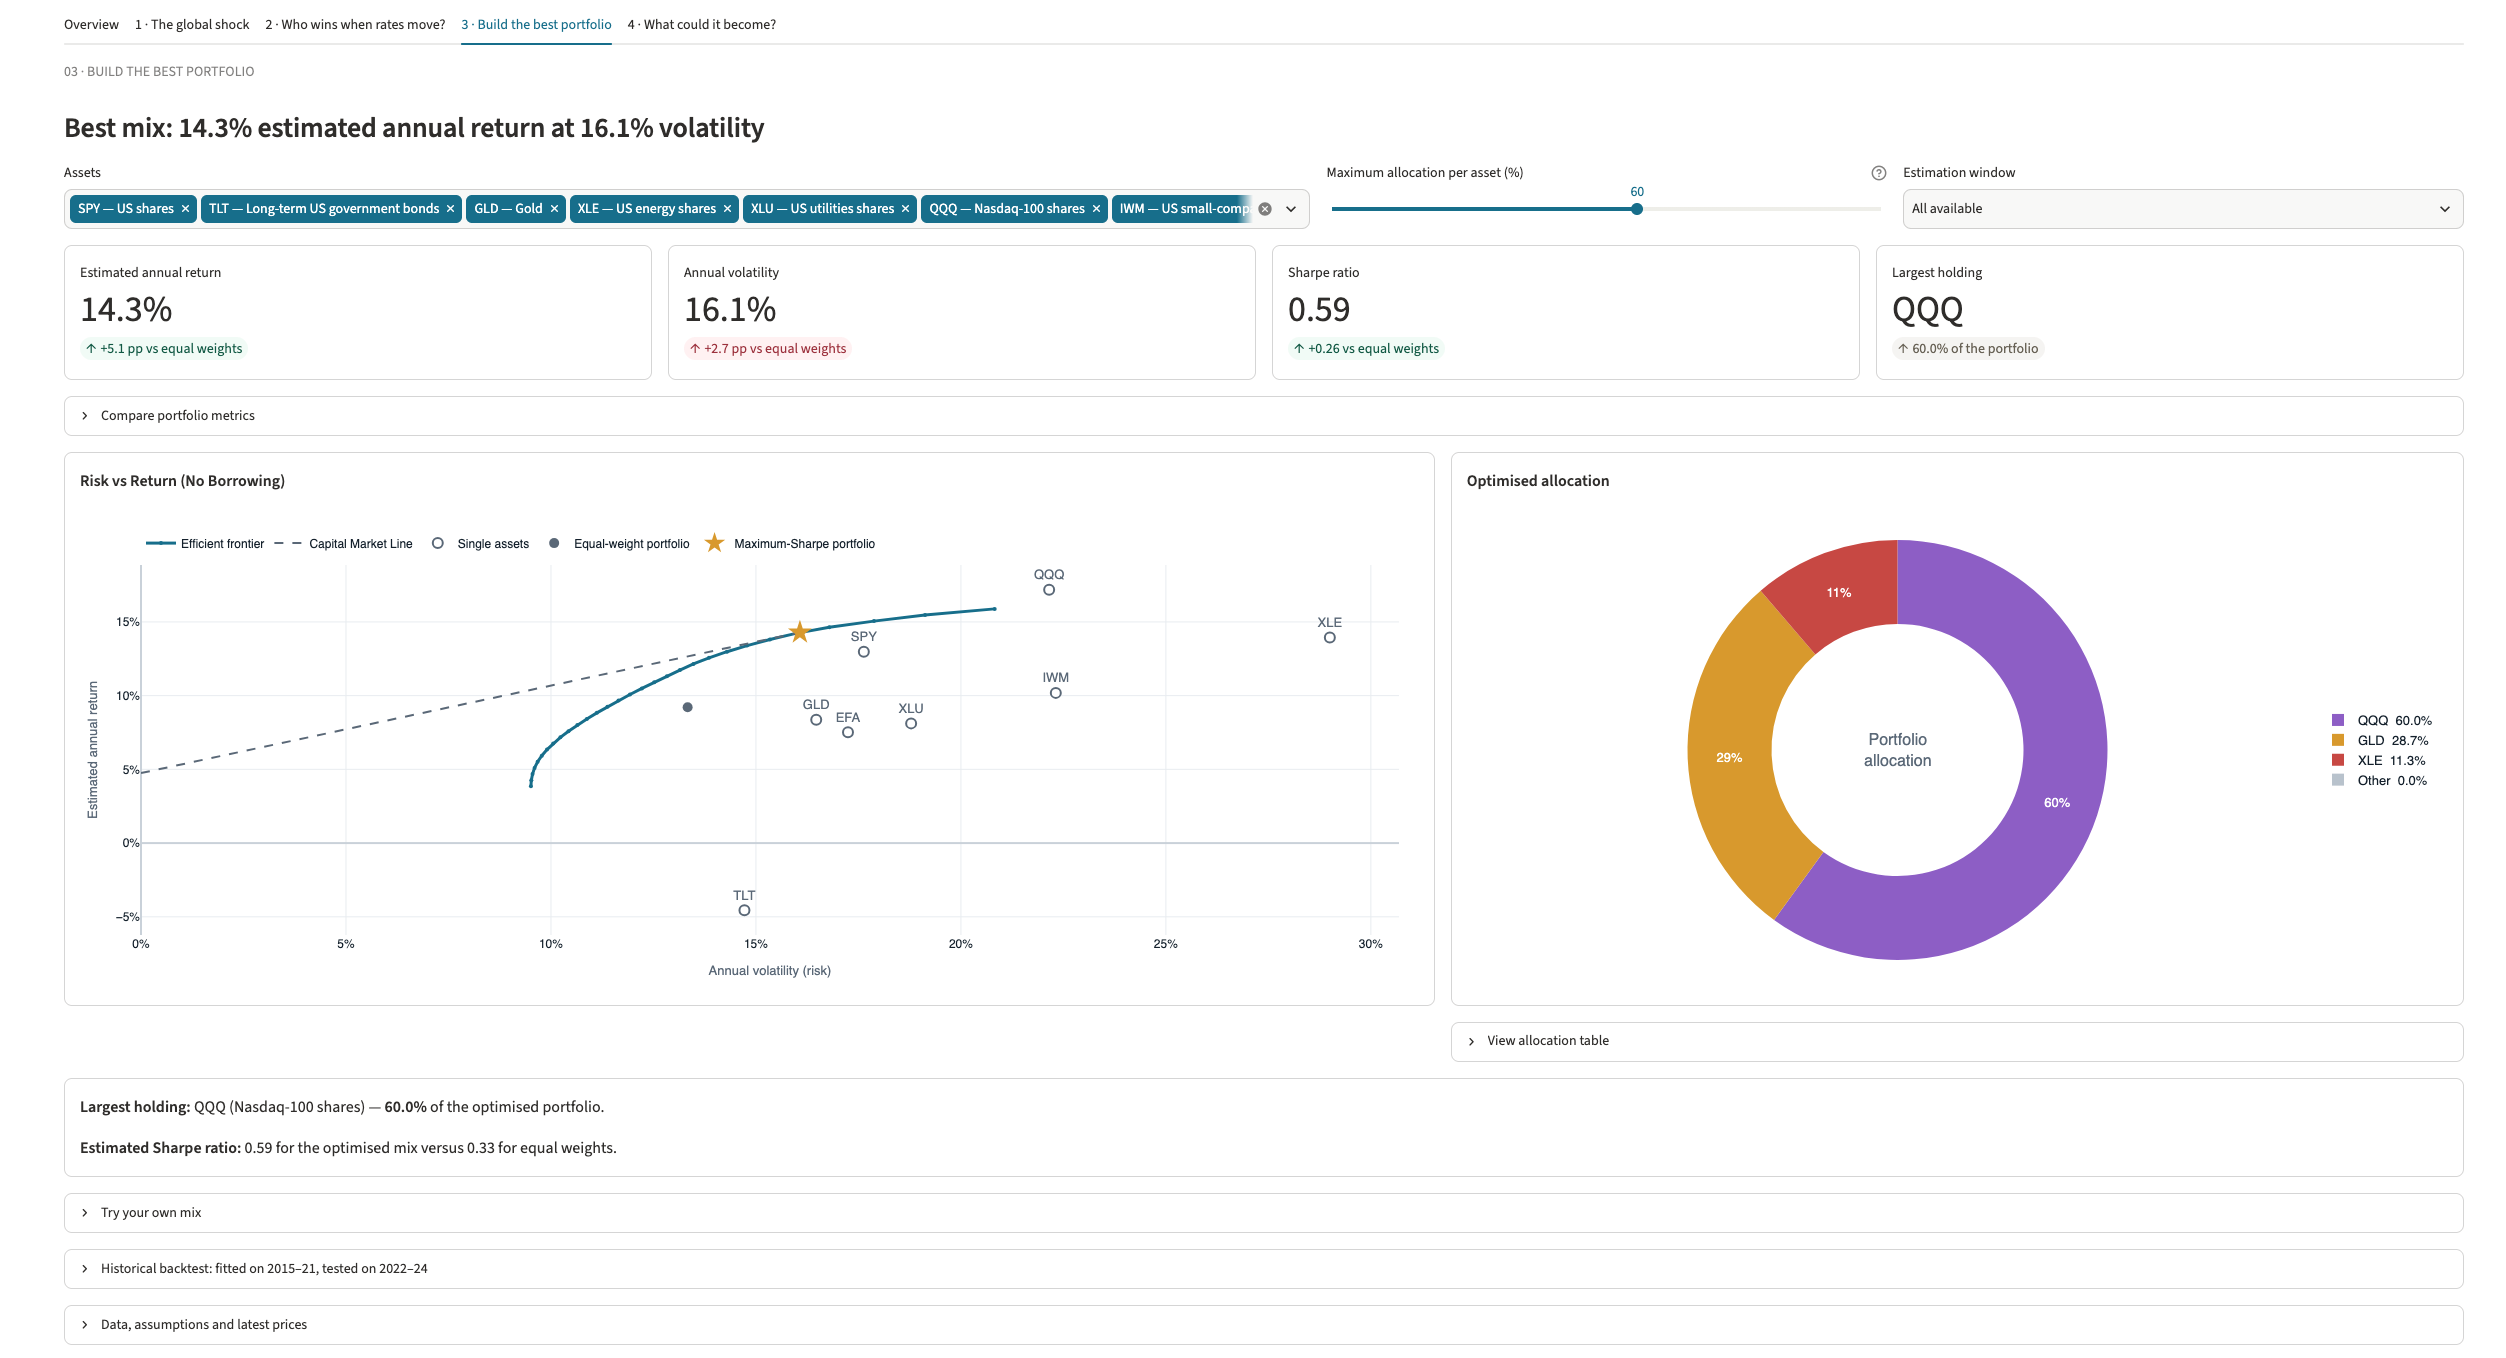
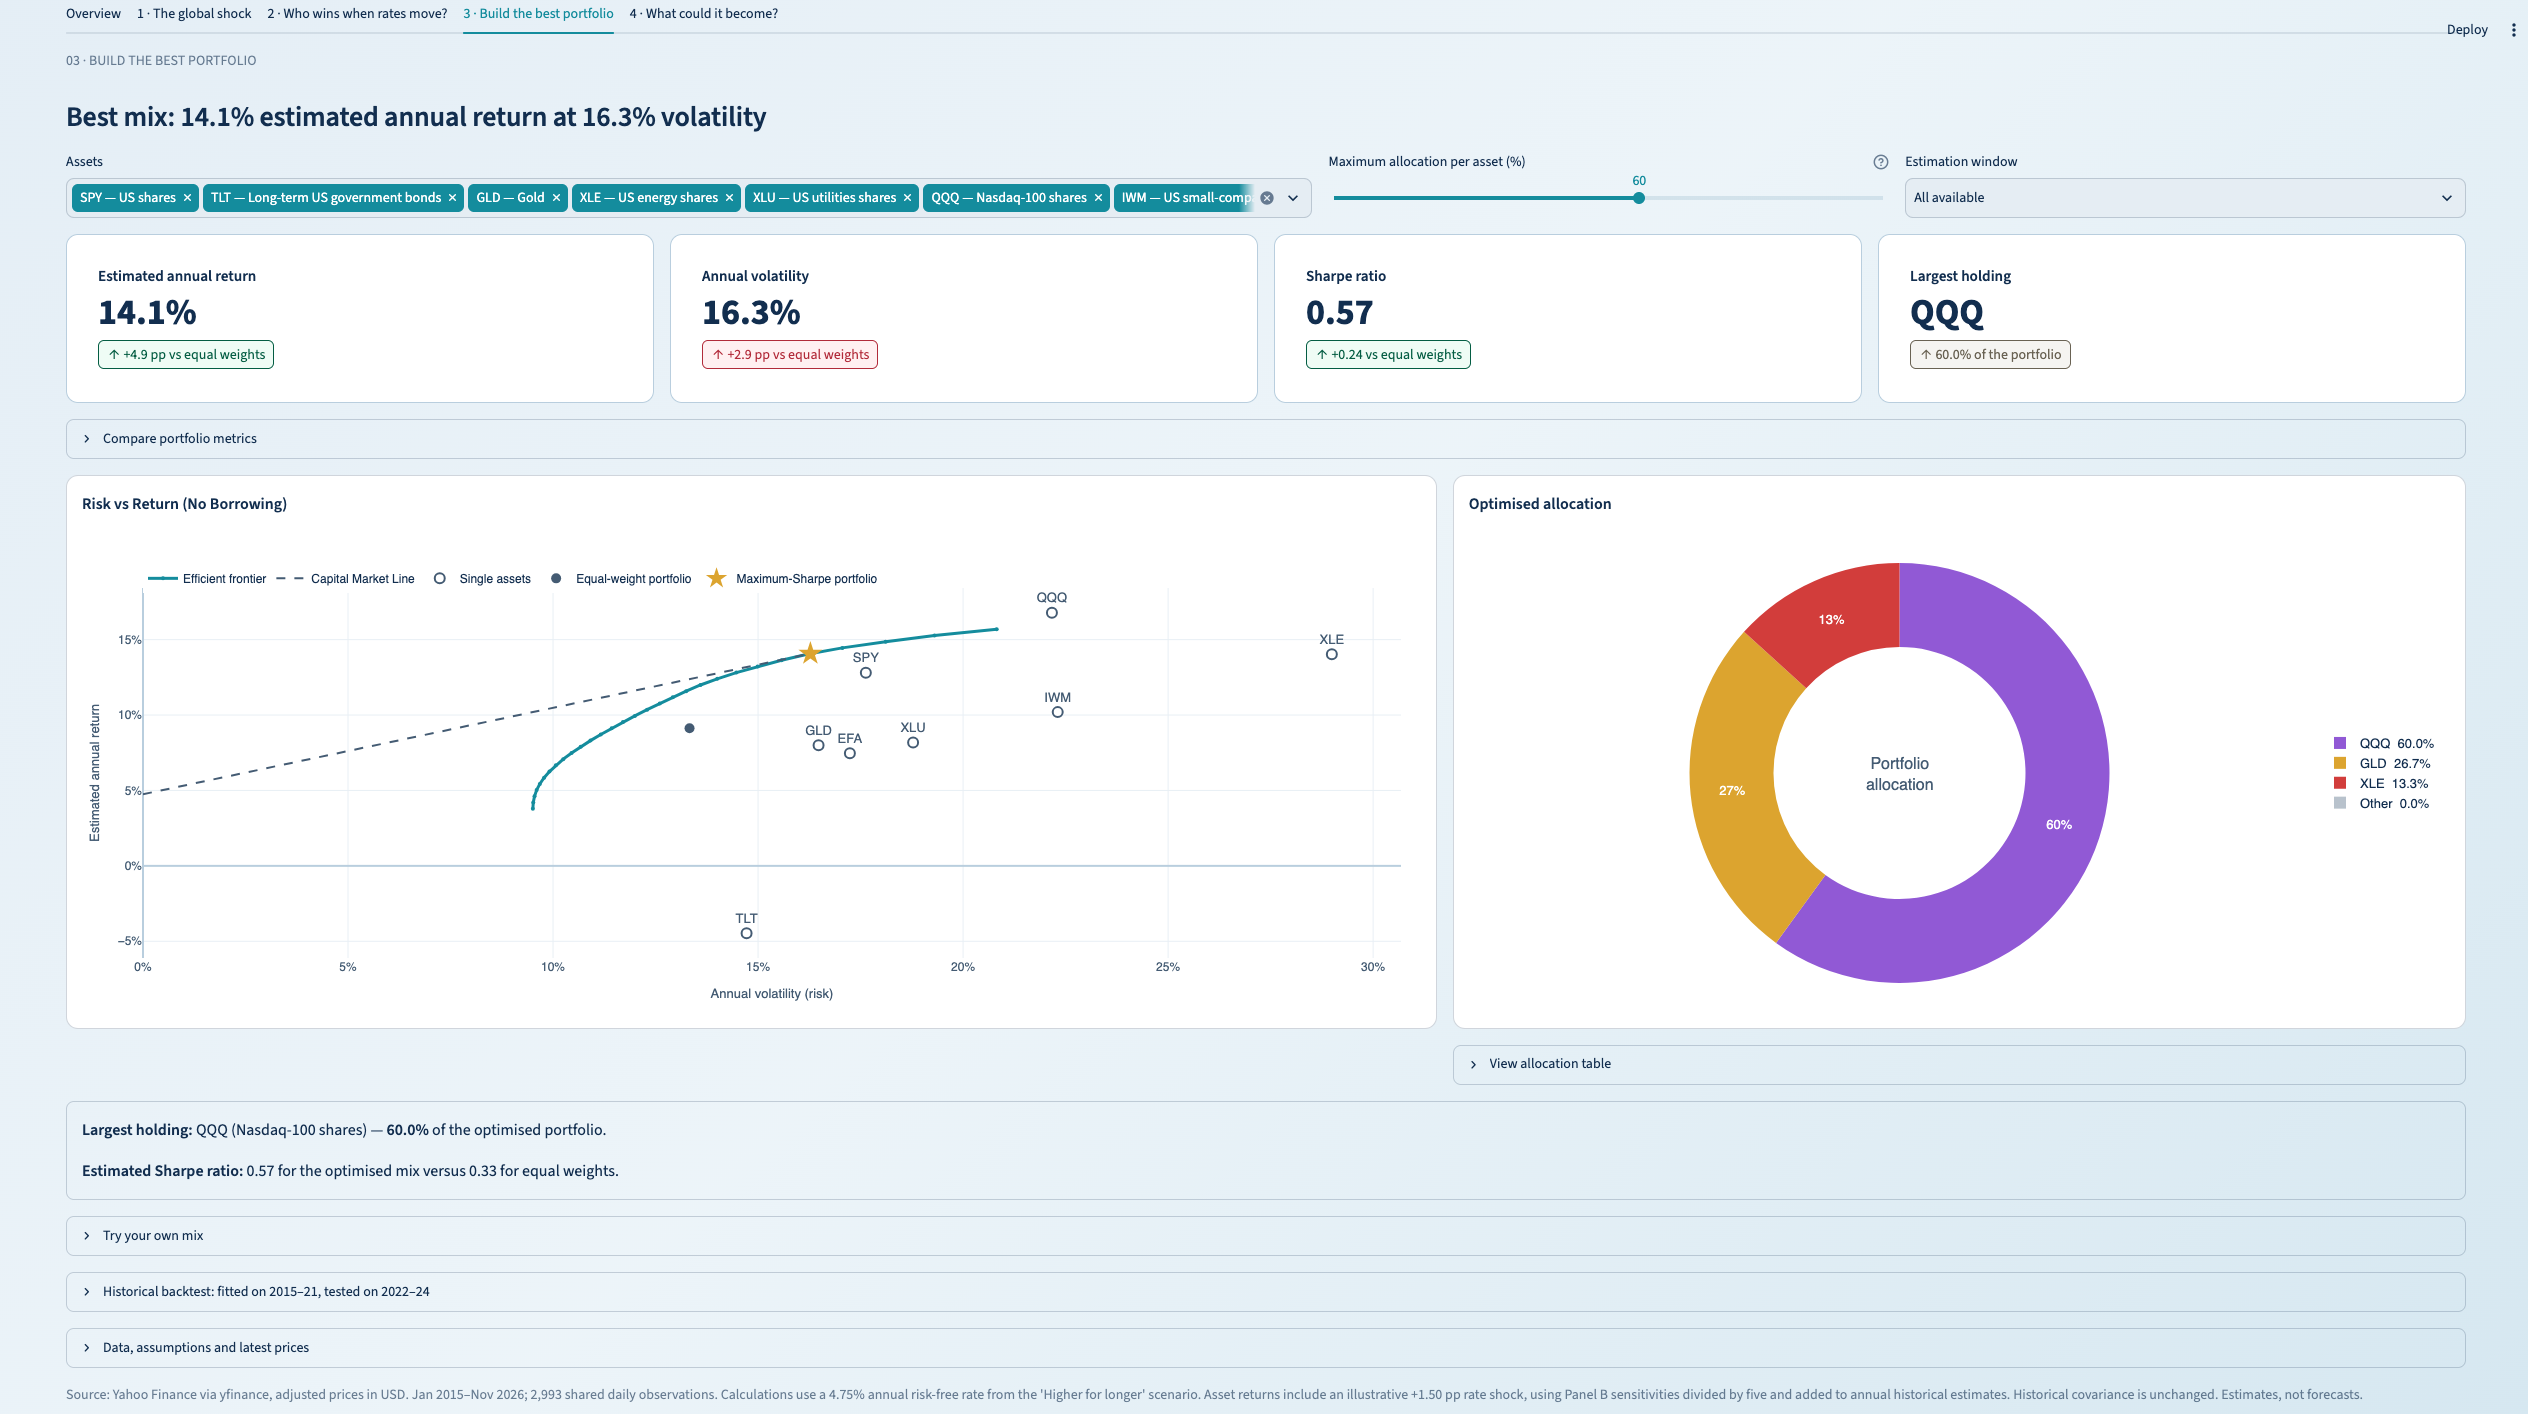
User manual: add Overview screenshot and update Panel 3 screenshot

diff --git a/docs/user_manual.md b/docs/user_manual.md
@@ -38,6 +38,8 @@ Start by choosing an economic scenario at the top of the dashboard. The **Overvi
 
 The dashboard updates as you change its controls.
 
+![The Overview tab with the Stagflation scenario selected](img/overview.png)
+
 **Internet access:** an internet connection is recommended for downloading market and economic data. Saved fallback datasets support offline operation when live data sources are unavailable. No FRED API key is required.
 
 To close the application, return to the terminal and press Ctrl+C.
